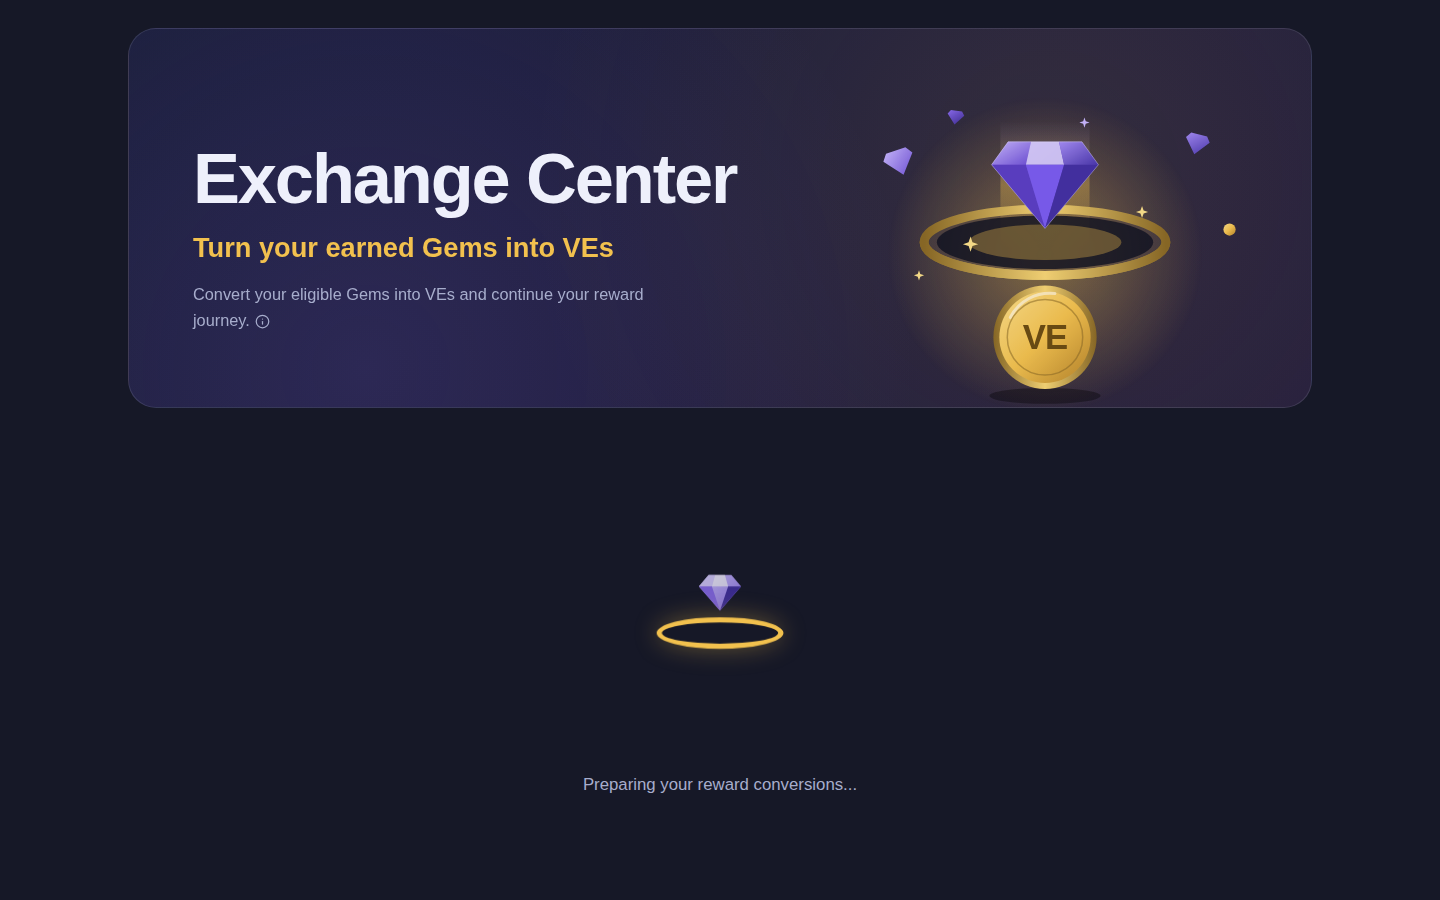
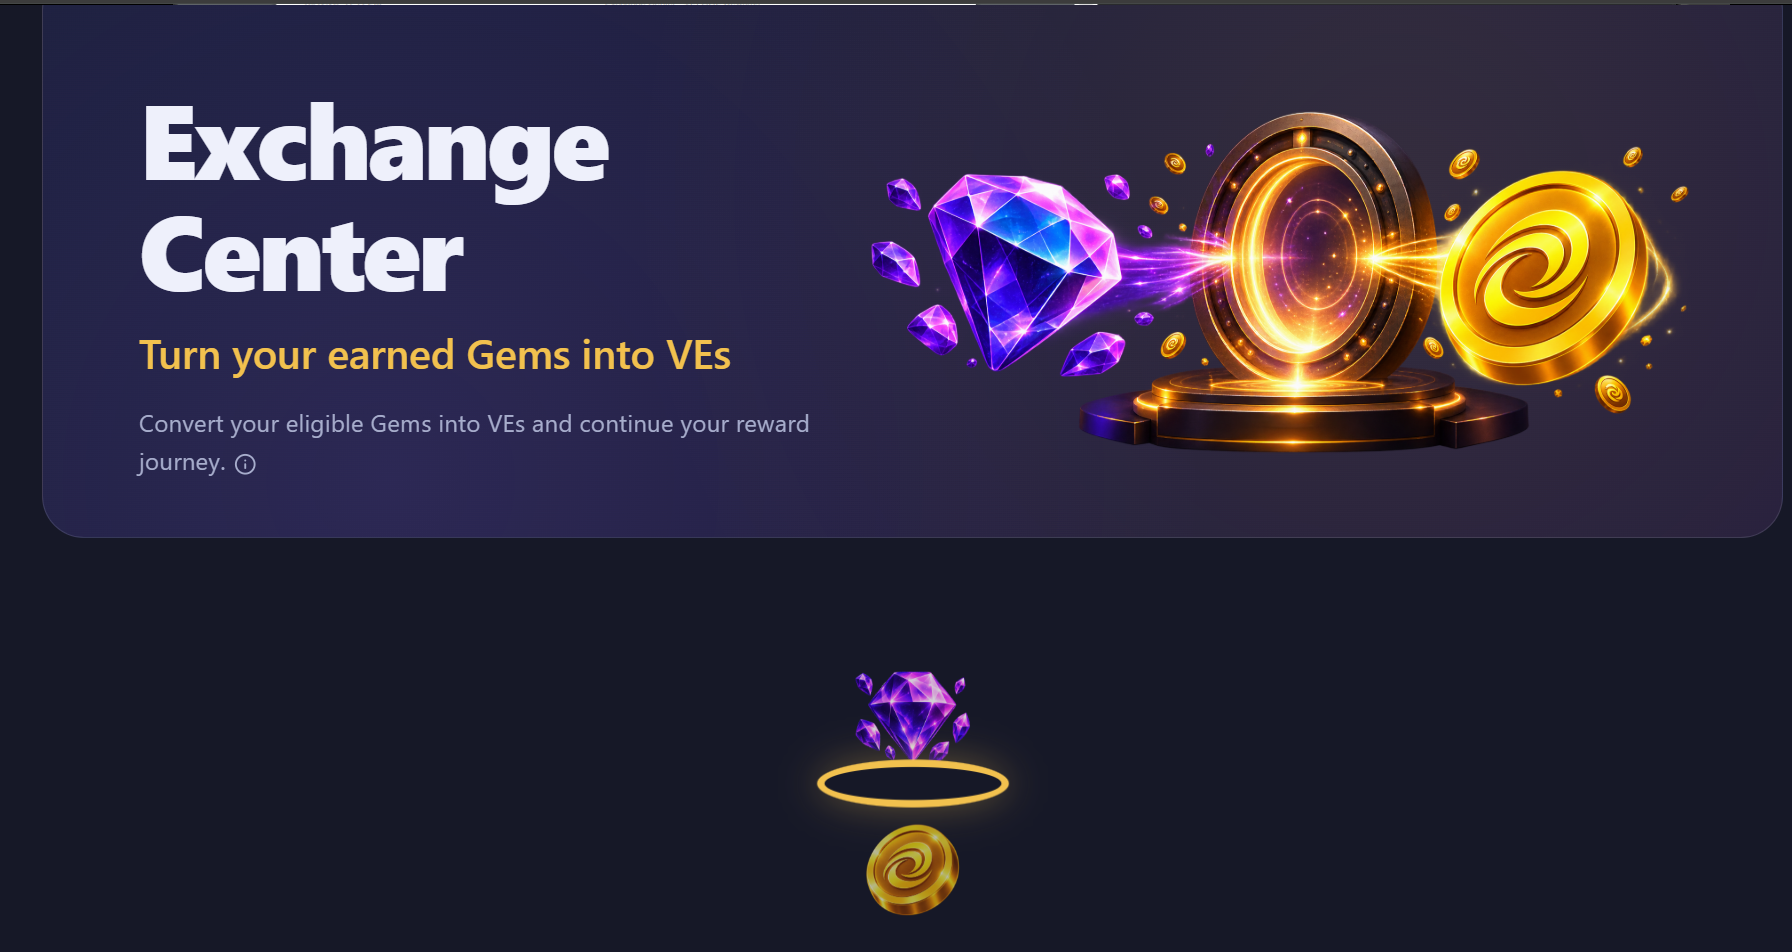
Update screenshots and responsive UI

Changed region(s): [[0.0, 0.0, 1.0, 0.5911], [0.4062, 0.6222, 0.5938, 0.9644]]

diff --git a/src/components/exchange/InfoTip.jsx b/src/components/exchange/InfoTip.jsx
@@ -1,12 +1,63 @@
-import { useEffect, useId, useRef, useState } from 'react'
+import { useEffect, useId, useLayoutEffect, useRef, useState } from 'react'
 import { Info } from 'lucide-react'
 import styles from './InfoTip.module.css'
 
 /** ⓘ button that shows a short explanation on click, hover or keyboard focus. */
 export default function InfoTip({ title, body, label, align = 'start' }) {
   const [open, setOpen] = useState(false)
+  const [popoverPosition, setPopoverPosition] = useState(null)
   const wrapperRef = useRef(null)
+  const triggerRef = useRef(null)
+  const popoverRef = useRef(null)
   const tipId = useId()
+
+  const openPopover = () => {
+    if (!open) setPopoverPosition(null)
+    setOpen(true)
+  }
+
+  useLayoutEffect(() => {
+    if (!open) return undefined
+
+    const updatePosition = () => {
+      const trigger = triggerRef.current
+      const popover = popoverRef.current
+      if (!trigger || !popover) return
+
+      const triggerRect = trigger.getBoundingClientRect()
+      const popoverWidth = Math.min(popover.offsetWidth, window.innerWidth - 32)
+      const desiredLeft = align === 'end'
+        ? triggerRect.right + 8 - popoverWidth
+        : triggerRect.left - 8
+      const left = Math.min(
+        Math.max(16, desiredLeft),
+        window.innerWidth - popoverWidth - 16,
+      )
+      const popoverHeight = Math.min(popover.offsetHeight, window.innerHeight - 16)
+      const belowTop = triggerRect.bottom + 8
+      const top = belowTop + popoverHeight <= window.innerHeight - 8
+        ? belowTop
+        : Math.max(8, triggerRect.top - popoverHeight - 8)
+
+      setPopoverPosition({
+        position: 'fixed',
+        left,
+        top,
+        width: popoverWidth,
+        maxWidth: window.innerWidth - 32,
+        maxHeight: window.innerHeight - 16,
+        overflowY: 'auto',
+      })
+    }
+
+    updatePosition()
+    window.addEventListener('resize', updatePosition)
+    window.addEventListener('scroll', updatePosition, true)
+    return () => {
+      window.removeEventListener('resize', updatePosition)
+      window.removeEventListener('scroll', updatePosition, true)
+    }
+  }, [align, open])
 
   useEffect(() => {
     if (!open) return undefined
@@ -28,21 +79,28 @@ export default function InfoTip({ title, body, label, align = 'start' }) {
     <span
       ref={wrapperRef}
       className={styles.wrapper}
-      onMouseEnter={() => setOpen(true)}
+      onMouseEnter={openPopover}
       onMouseLeave={() => setOpen(false)}
     >
       <button
         type="button"
+        ref={triggerRef}
         className={styles.trigger}
         aria-label={label ?? title}
         aria-expanded={open}
         aria-describedby={open ? tipId : undefined}
-        onClick={() => setOpen((value) => !value)}
+        onClick={openPopover}
       >
         <Info size={15} aria-hidden="true" />
       </button>
       {open && (
-        <span id={tipId} role="tooltip" className={`${styles.popover} ${styles[align]}`}>
+        <span
+          ref={popoverRef}
+          id={tipId}
+          role="tooltip"
+          className={`${styles.popover} ${styles[align]}`}
+          style={popoverPosition ?? undefined}
+        >
           <strong>{title}</strong>
           <span>{body}</span>
         </span>

diff --git a/src/components/exchange/ConversionSuccess.jsx b/src/components/exchange/ConversionSuccess.jsx
@@ -1,5 +1,5 @@
 import { motion, useReducedMotion } from 'framer-motion'
-import { Check } from 'lucide-react'
+import successIcon from '../../assets/successIcon.png'
 import styles from './ConversionSuccess.module.css'
 
 const BURST_PARTICLES = Array.from({ length: 12 }, (_, index) => {
@@ -24,12 +24,11 @@ export default function ConversionSuccess({ option, onContinue }) {
             />
           ))}
         <motion.span
-          className={styles.check}
+          // className={styles.check}
           initial={reduceMotion ? false : { scale: 0.4, opacity: 0 }}
           animate={{ scale: 1, opacity: 1 }}
           transition={{ type: 'spring', stiffness: 260, damping: 16 }}
-        >
-          <Check size={38} strokeWidth={3} aria-hidden="true" />
+        ><img src={successIcon} alt="Check" width={100} height={100} />
         </motion.span>
       </div>
 

diff --git a/src/components/exchange/ExchangeHero.module.css b/src/components/exchange/ExchangeHero.module.css
@@ -62,7 +62,7 @@
   }
 
   .art {
-    width: 420px;
-    align-self: flex-end;
+    width: 575px;
+    /* align-self: flex-end; */
   }
 }
